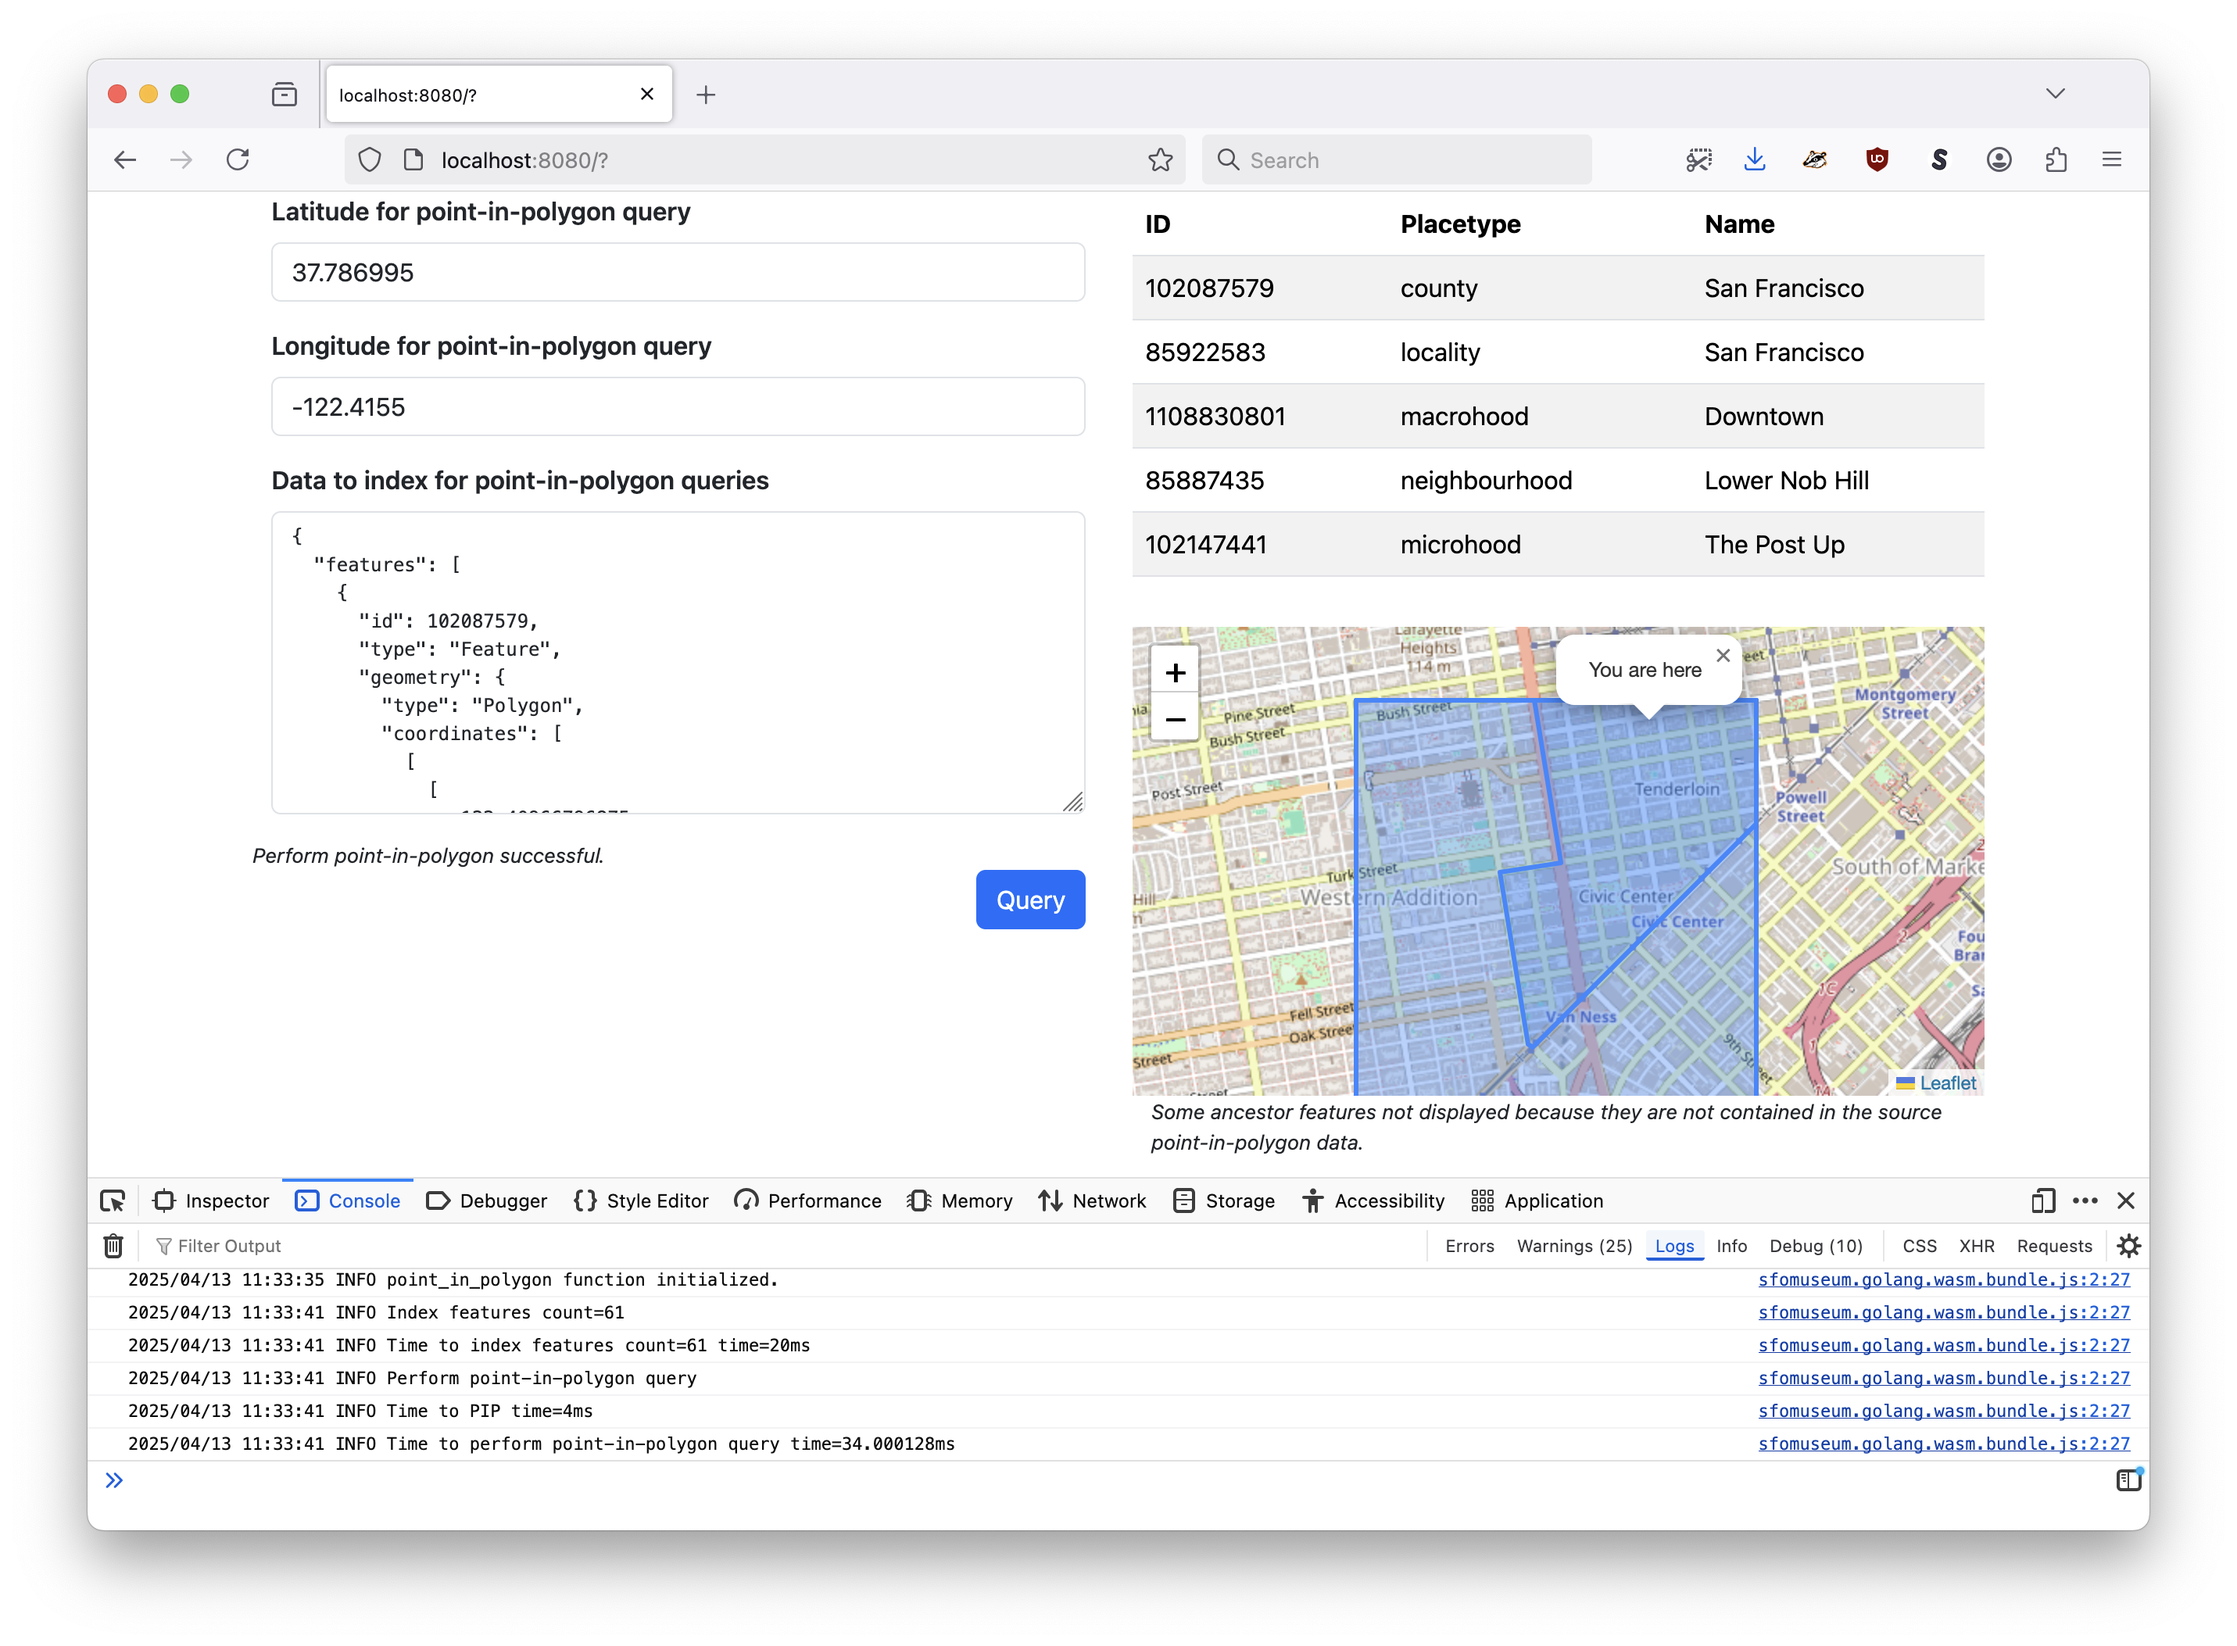
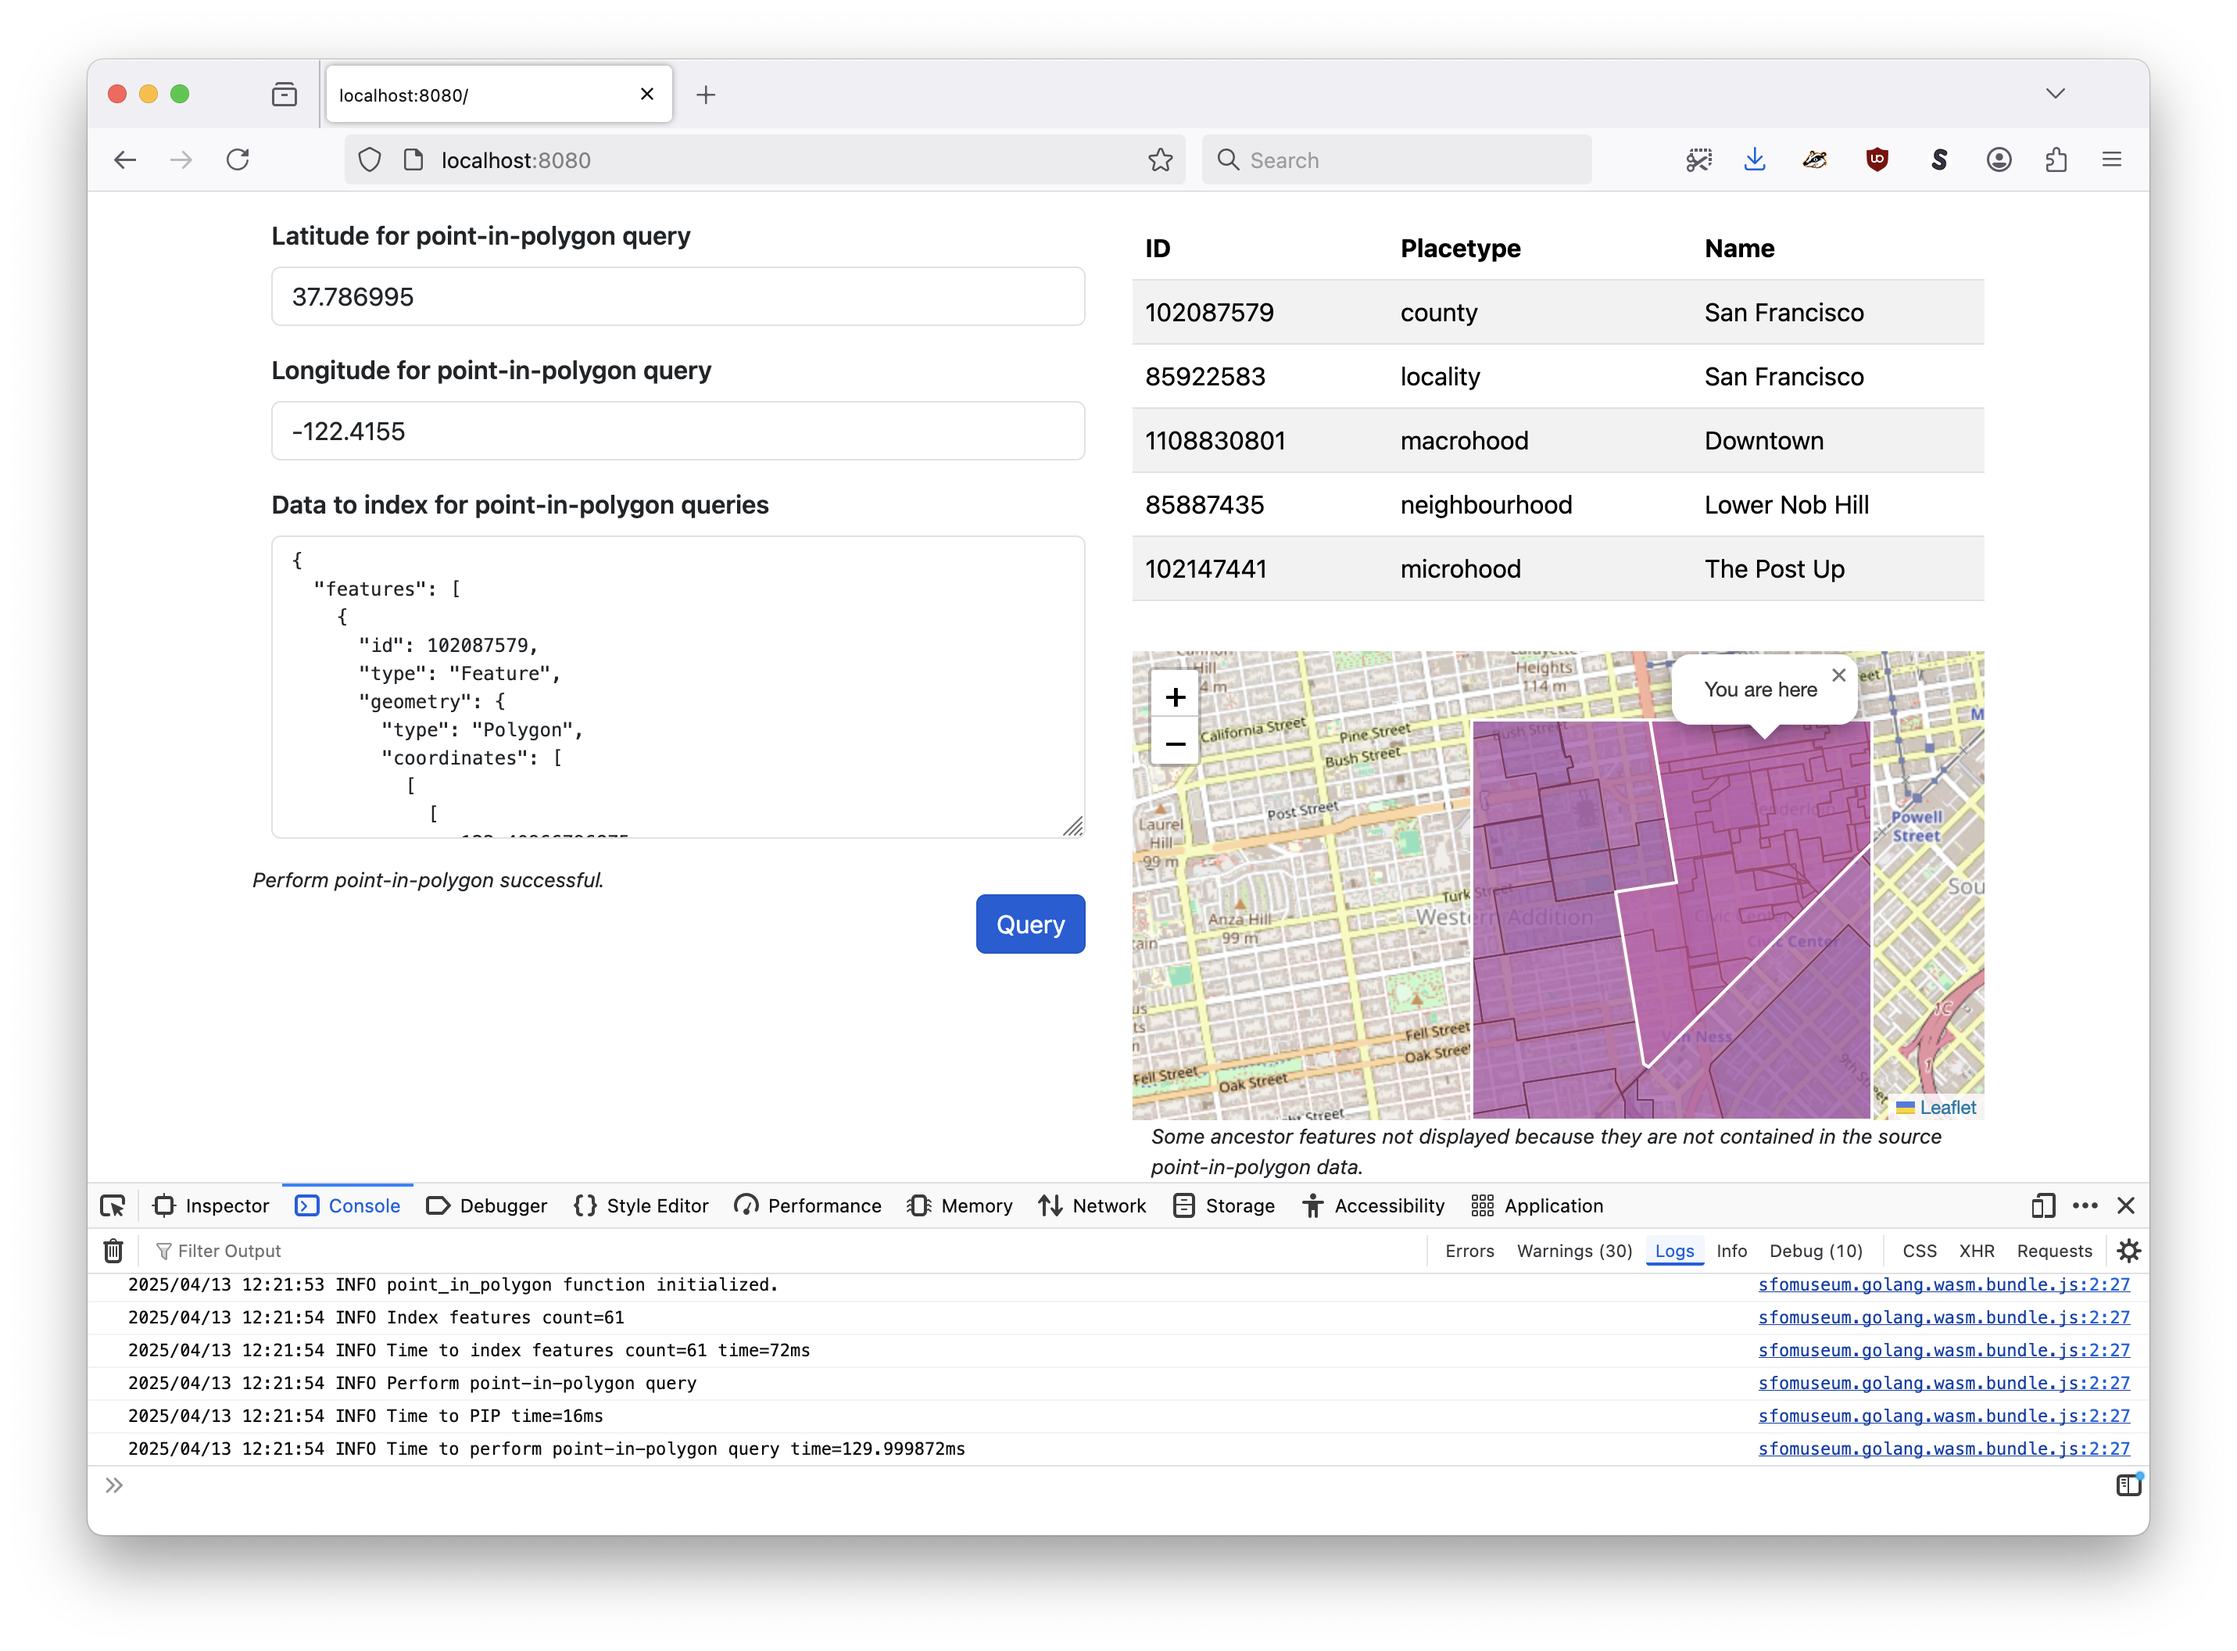
draw all source features, improved styling

diff --git a/www/javascript/sfomuseum.spatial.wasm.init.js b/www/javascript/sfomuseum.spatial.wasm.init.js
@@ -135,8 +135,28 @@ sfomuseum.golang.wasm.fetch("wasm/point_in_polygon.wasm").then((rsp) => {
 
 	var osm_layer = L.tileLayer('https://tile.openstreetmap.org/{z}/{x}/{y}.png');
 	osm_layer.addTo(map);
+
+	var source_layer = L.geoJSON(source_data, {
+		style: {
+				"color": "#000",
+				"weight": 1,
+				"opacity": 1,
+				"fillColor": "#00308F",
+				"fillOpacity": 0.2
+		}
+	});
+	source_layer.addTo(map);
 	
-	var feature_layer = L.geoJSON(map_fc);
+	var feature_layer = L.geoJSON(map_fc, {
+		style: {
+				"color": "#fff",
+				"weight": 2,
+				"opacity": 1,
+				"fillColor": "#ff69b4",
+				"fillOpacity": 0.3
+		}
+	});
+	
 	feature_layer.addTo(map);
 
 	var lat = parseFloat(lat_el.value);

diff --git a/cmd/point-in-polygon/main.go b/cmd/point-in-polygon/main.go
@@ -7,10 +7,10 @@ import (
 	"log/slog"
 	"syscall/js"
 	"time"
-	
+
 	"github.com/paulmach/orb/geojson"
 	"github.com/whosonfirst/go-whosonfirst-spatial/database"
-	"github.com/whosonfirst/go-whosonfirst-spatial/query"	
+	"github.com/whosonfirst/go-whosonfirst-spatial/query"
 )
 
 func PointInPolygonFunc() js.Func {
@@ -19,7 +19,7 @@ func PointInPolygonFunc() js.Func {
 
 		fc_str := args[0].String()
 		q_str := args[1].String()
-		
+
 		handler := js.FuncOf(func(this js.Value, args []js.Value) interface{} {
 
 			resolve := args[0]
@@ -27,12 +27,12 @@ func PointInPolygonFunc() js.Func {
 
 			t1 := time.Now()
 
-			defer func(){
+			defer func() {
 				slog.Info("Time to perform point-in-polygon query", "time", time.Since(t1))
 			}()
-			
+
 			ctx := context.Background()
-			
+
 			var spatial_q *query.SpatialQuery
 
 			err := json.Unmarshal([]byte(q_str), &spatial_q)
@@ -42,7 +42,7 @@ func PointInPolygonFunc() js.Func {
 				reject.Invoke(fmt.Sprintf("Failed to unmarshal spatial query, %w", err))
 				return nil
 			}
-			
+
 			if spatial_q.Geometry == nil {
 				slog.Error("Missing geometry in spatial query")
 				reject.Invoke(fmt.Sprintf("Missing geometry"))
@@ -64,7 +64,7 @@ func PointInPolygonFunc() js.Func {
 			}
 
 			db, err := database.NewSpatialDatabase(ctx, "rtree://")
-			
+
 			if err != nil {
 				slog.Error("Failed to create spatial database", "error", err)
 				reject.Invoke(fmt.Sprintf("Failed to create new database, w", err))
@@ -73,9 +73,9 @@ func PointInPolygonFunc() js.Func {
 
 			slog.Info("Index features", "count", len(fc.Features))
 			t2 := time.Now()
-			
+
 			for offset, f := range fc.Features {
-				
+
 				enc_f, _ := f.MarshalJSON()
 				err := db.IndexFeature(ctx, enc_f)
 
@@ -108,7 +108,7 @@ func PointInPolygonFunc() js.Func {
 			}
 
 			slog.Info("Time to PIP", "time", time.Since(t3))
-			
+
 			enc, err := json.Marshal(rsp)
 
 			if err != nil {
